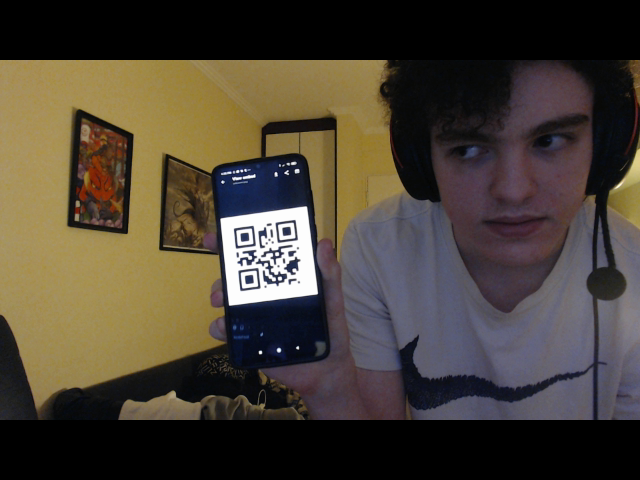
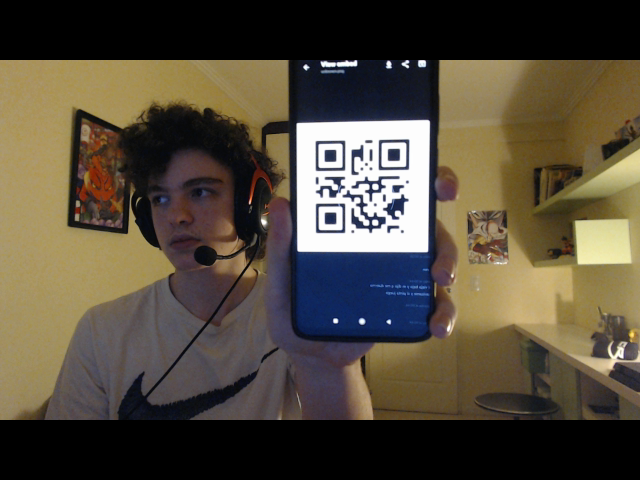
SI mongo db

diff --git a/aws.js b/aws.js
@@ -7,7 +7,8 @@ const cors = require('cors')
 const UserNew = require('./models/User')
 AWS.config.update({ region: 'us-east-1' });
 const mongoose = require('mongoose')
-const uri = 'mongodb://localhost:27017/mernauth'
+//const uri = 'mongodb://localhost:27017/mernauth'
+const uri = "mongodb+srv://tievo:hU4s1oAElAanEEHu@lurien.1yjjv.mongodb.net/tievo?retryWrites=true&w=majority";
 
 app.use(express.json())
 app.use(cors())

diff --git a/models/User.js b/models/User.js
@@ -35,7 +35,12 @@ const UserSchema = new mongoose.Schema({
         type: Number,
         default: 0
     },
-    faceIds:[String]
+    faceIds:[String],
+    qrPin:{
+        type: String,
+        maxlength: 30,
+        minlength: 25
+    }
 });
 
 UserSchema.pre('save', function (next) {

diff --git a/routes/pito.js b/routes/pito.js
@@ -117,7 +117,9 @@ var params = {
 
 
 
-
+router.get('/tool', async (req,res) =>{
+    
+})
 
 router.get('/pollo/:id', async (req, res) => {
     console.log(req.params.id)
